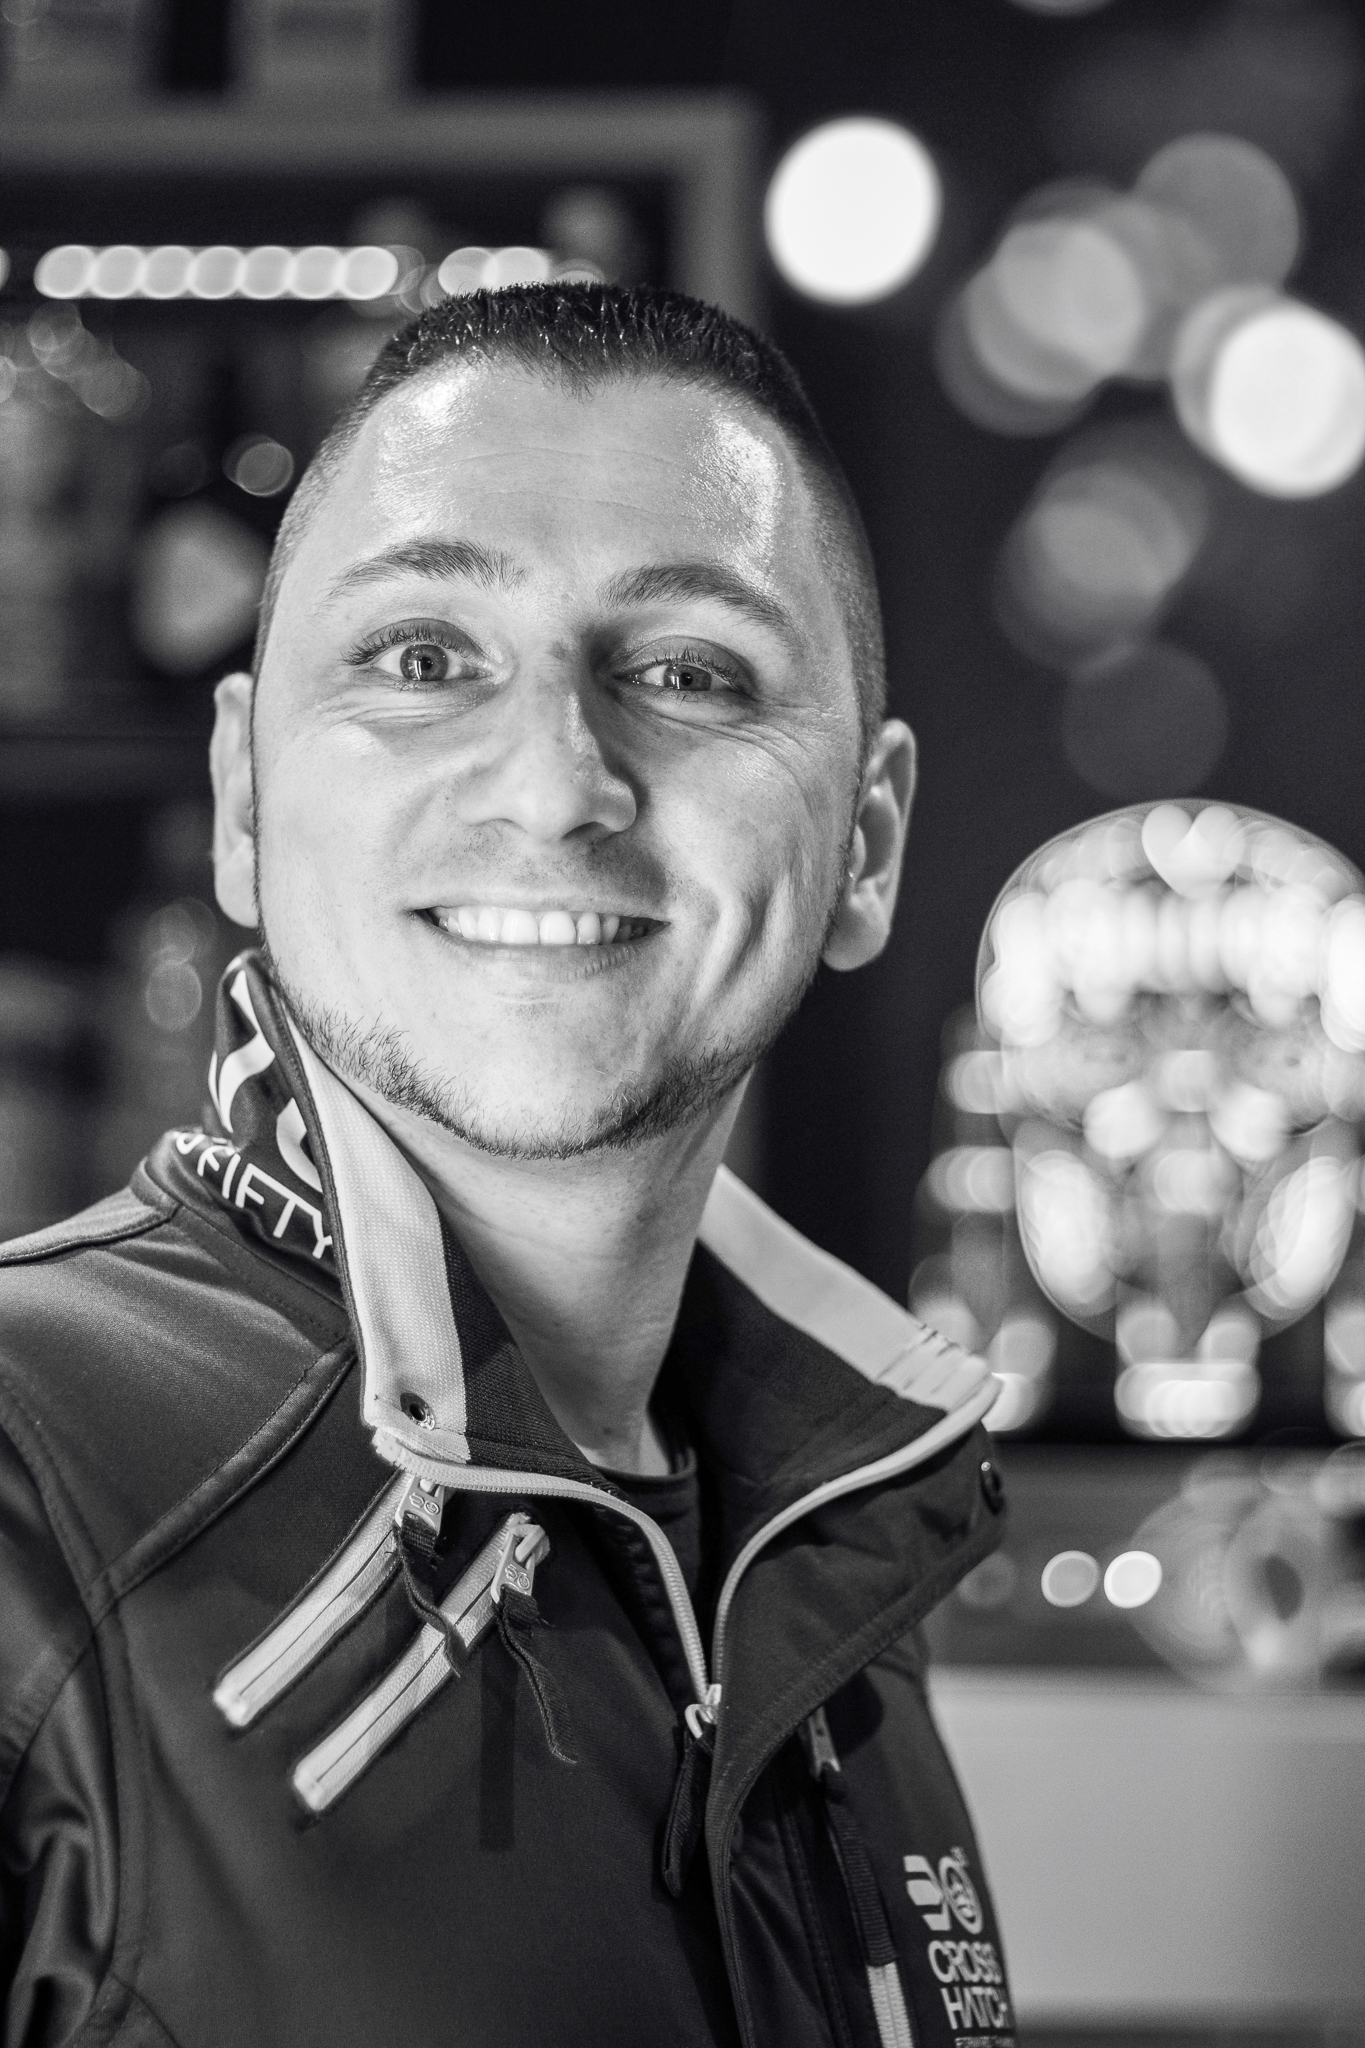
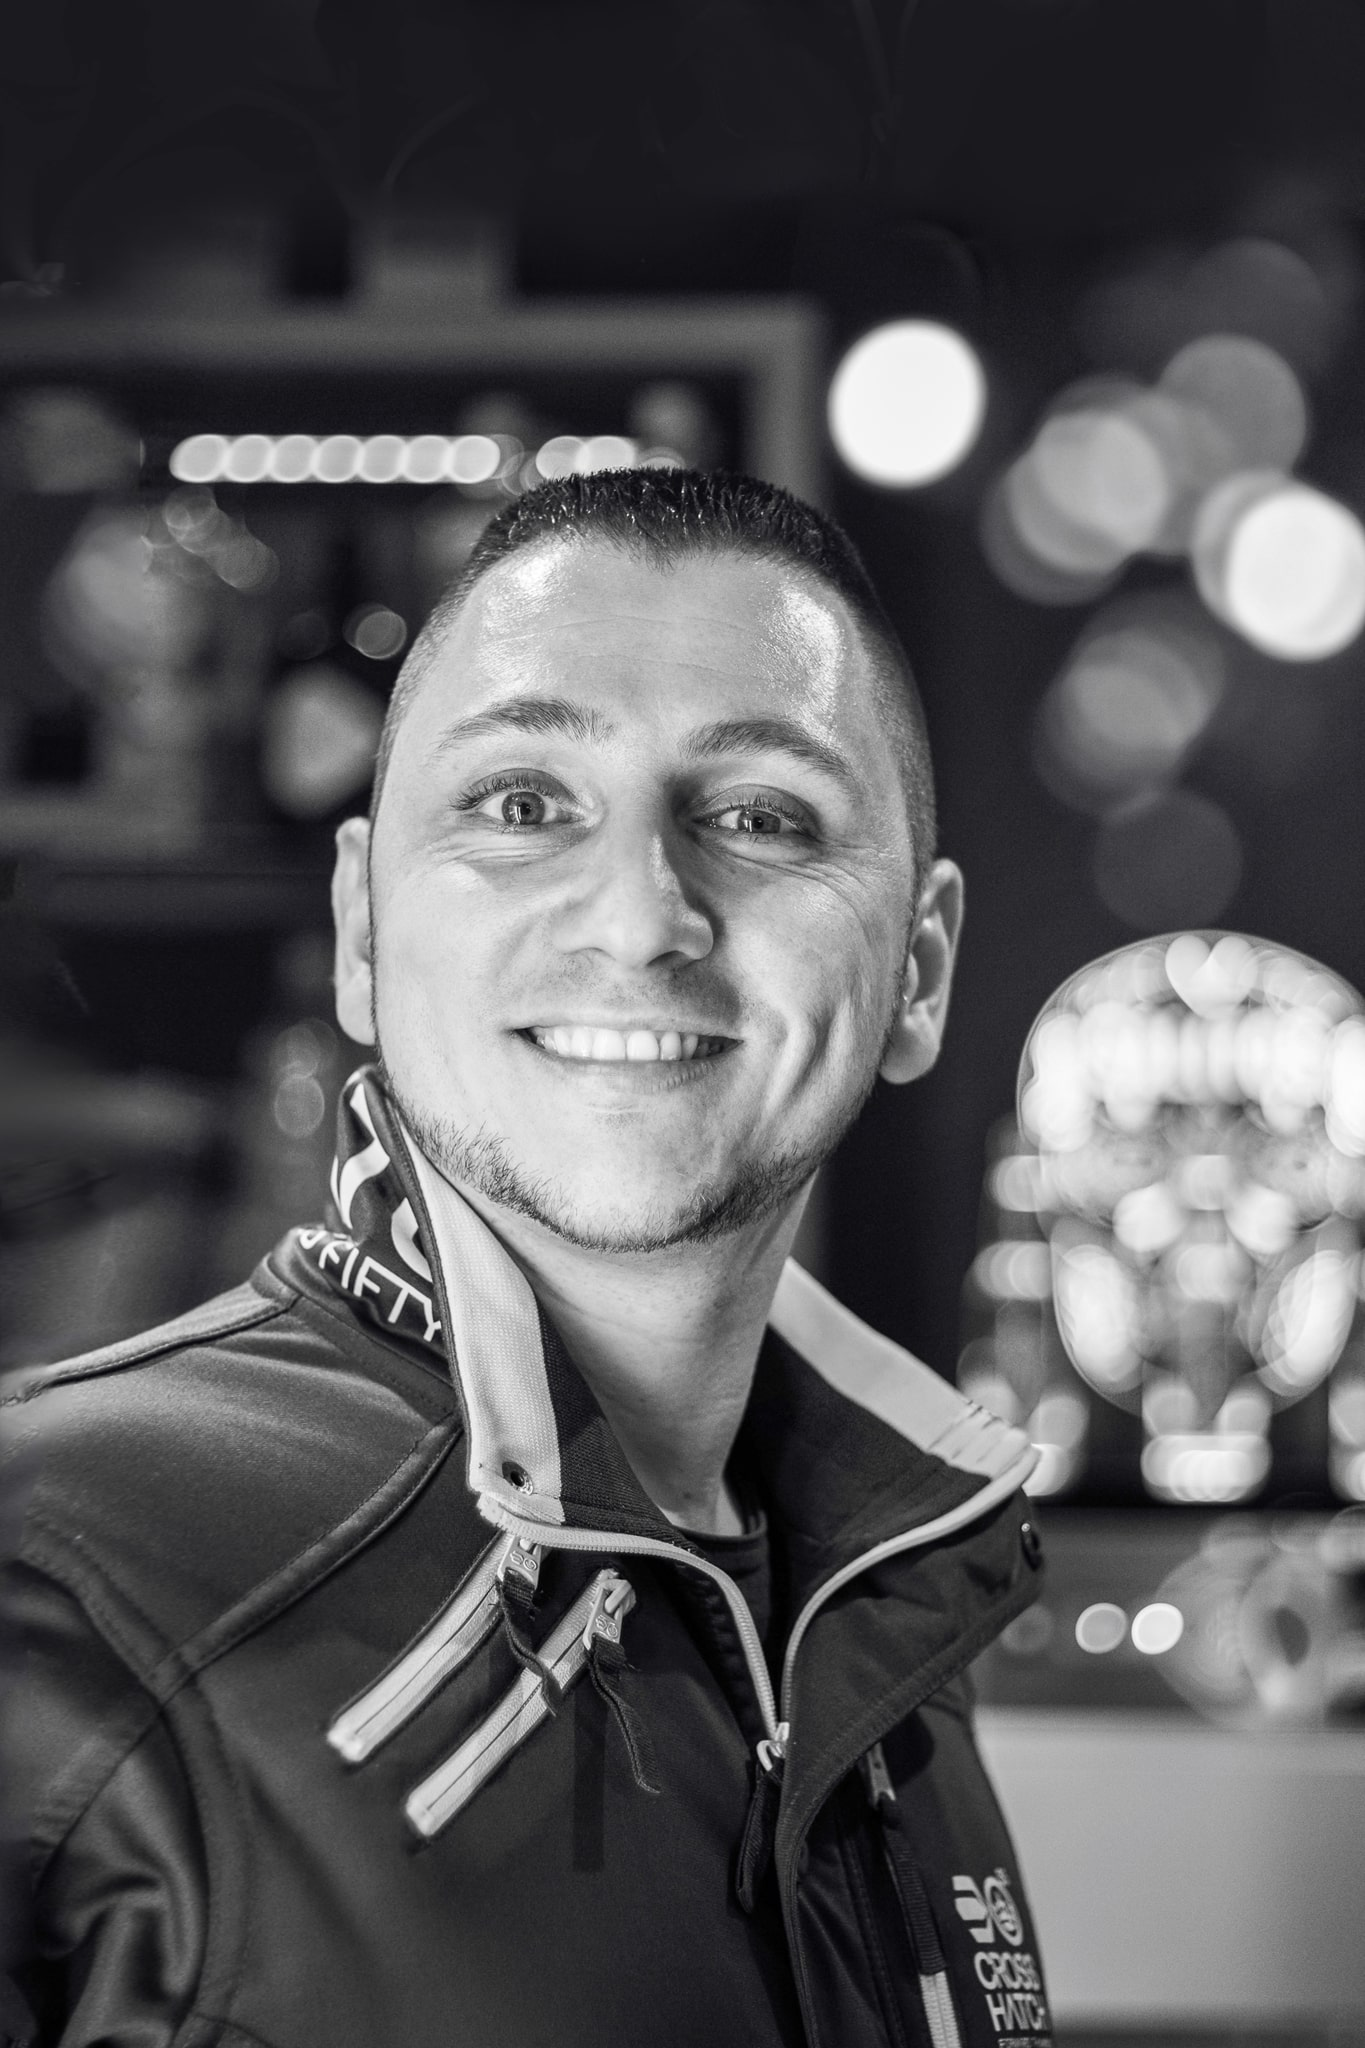
Compress Picture and small changes

diff --git a/index.html b/index.html
@@ -38,7 +38,9 @@
       <div class="particles_div_h1">
         <h1 class="nav_section2">
           Hello, I'm
-          <span class="name_h1">Sascha Göbbels</span>.<br /><br />
+          <span class="name_h1">Sascha Göbbels</span><br /><br />
+          Software Developer from Wiesbaden
+          <br /><br />
           Take a look at my Portfolio !
         </h1>
         <button class="particlesBtn" id="particlesBtn">

diff --git a/CSS/style.css b/CSS/style.css
@@ -401,10 +401,7 @@ p {
 }
 .img_me {
   width: 100%;
-  /* object-fit: fill; */
-
-  /* scale: 1.5; */
-  /* object-fit: cover; */
+  transform: translateY(-50px);
 }
 .skills_ul li {
   position: relative;
